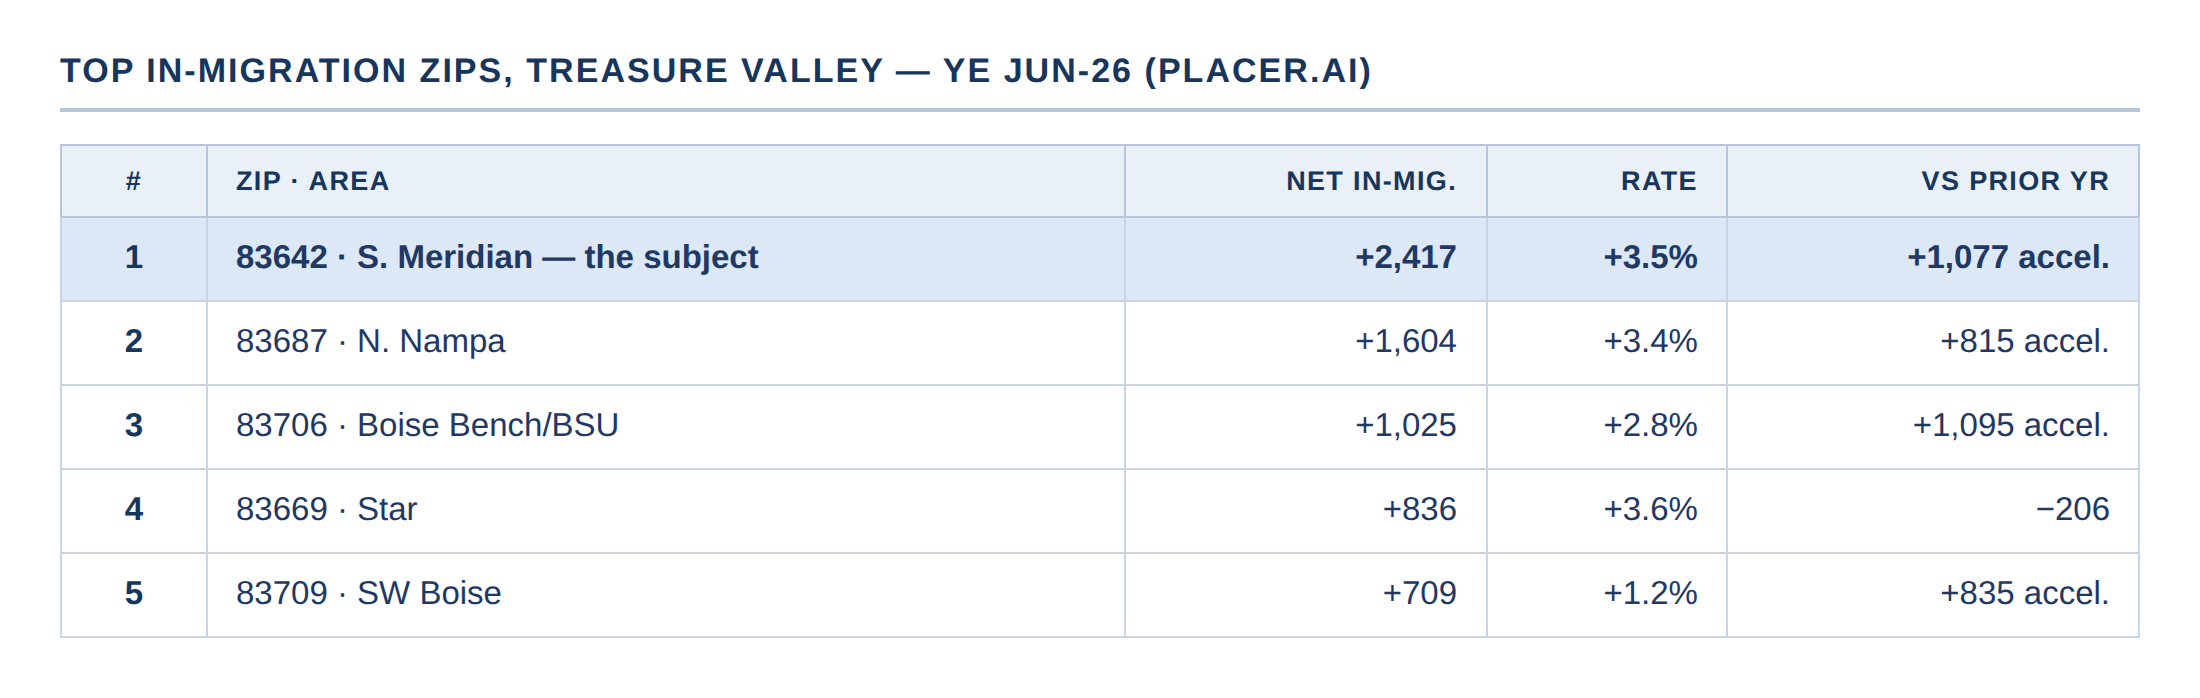
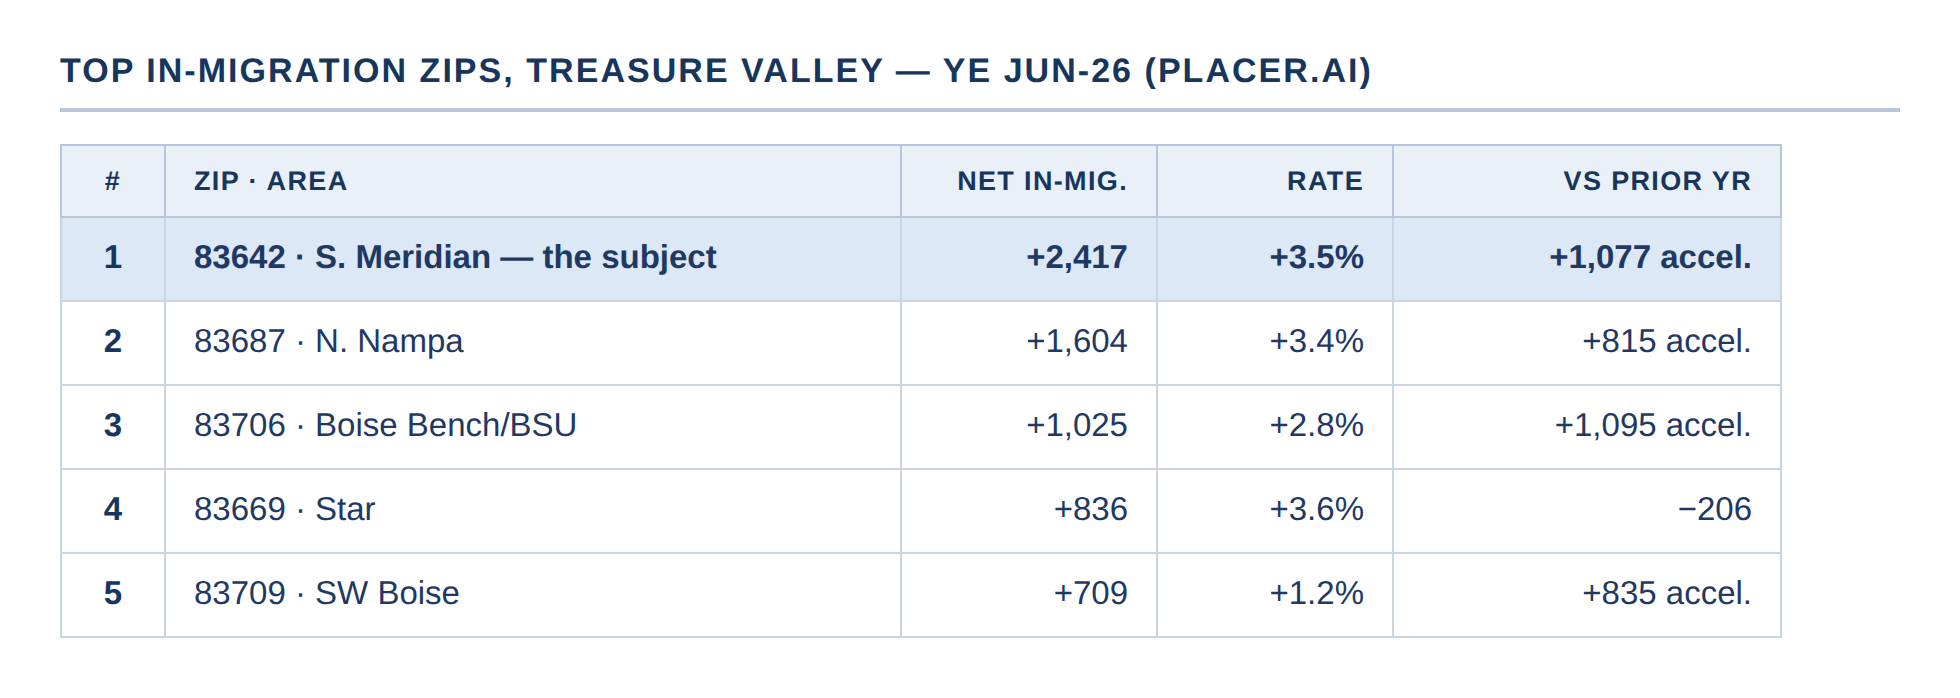
Tighten exhibit table columns (ZIP-Area/Net In-Mig; Origin/Trend)
Claude-Session: https://claude.ai/code/session_01Hx2GcWgZutgtumZeKtRbgD

diff --git a/SeasonsMeridian/analysis/strengths-considerations/exhibits/exec_exhibits.html b/SeasonsMeridian/analysis/strengths-considerations/exhibits/exec_exhibits.html
@@ -7,7 +7,13 @@
   .exh { width:1040px; background:#fff; padding:26px 30px 30px; }
   .title { font-size:17px; font-weight:900; letter-spacing:.06em; text-transform:uppercase;
     color:#17365D; padding-bottom:8px; border-bottom:2.5px solid #B8C6DC; margin-bottom:16px; }
-  table { border-collapse:collapse; width:100%; font-size:16.5px; }
+  table { border-collapse:collapse; font-size:16.5px; table-layout:fixed; }
+  #ex2 table { width:860px; }
+  #ex2 col.c-rank { width:52px; } #ex2 col.c-zip { width:368px; } #ex2 col.c-net { width:128px; }
+  #ex2 col.c-rate { width:118px; } #ex2 col.c-prior { width:194px; }
+  #ex3 table { width:880px; }
+  #ex3 col.c-origin { width:268px; } #ex3 col.c-net { width:104px; } #ex3 col.c-prior { width:118px; }
+  #ex3 col.c-hhi { width:150px; } #ex3 col.c-trend { width:240px; }
   th { background:#EAF0F8; color:#17365D; font-weight:900; font-size:13.5px; letter-spacing:.05em;
     text-transform:uppercase; padding:10px 14px; border:1px solid #B8C6DC; }
   td { padding:11px 14px; border:1px solid #C9D4E4; color:#1F3864; }
@@ -35,9 +41,10 @@
   </div>
 </div>
 
-<div class="exh" id="ex2">
+<div class="exh" id="ex2" style="width:920px">
   <div class="title">Top In-Migration ZIPs, Treasure Valley — YE Jun-26 (Placer.ai)</div>
   <table>
+    <colgroup><col class="c-rank"><col class="c-zip"><col class="c-net"><col class="c-rate"><col class="c-prior"></colgroup>
     <thead><tr><th class="ctr">#</th><th style="text-align:left">ZIP · Area</th>
       <th class="num">Net In-Mig.</th><th class="num">Rate</th><th class="num">vs Prior Yr</th></tr></thead>
     <tbody>
@@ -50,9 +57,10 @@
   </table>
 </div>
 
-<div class="exh" id="ex3">
+<div class="exh" id="ex3" style="width:940px">
   <div class="title">Where They Come From — Top Origin Metros (Net, YE Jun-26 vs Prior Yr)</div>
   <table>
+    <colgroup><col class="c-origin"><col class="c-net"><col class="c-prior"><col class="c-hhi"><col class="c-trend"></colgroup>
     <thead><tr><th style="text-align:left">Origin</th><th class="num">Net</th><th class="num">Prior Yr</th>
       <th class="num">Origin MHHI</th><th style="text-align:left">Trend</th></tr></thead>
     <tbody>
